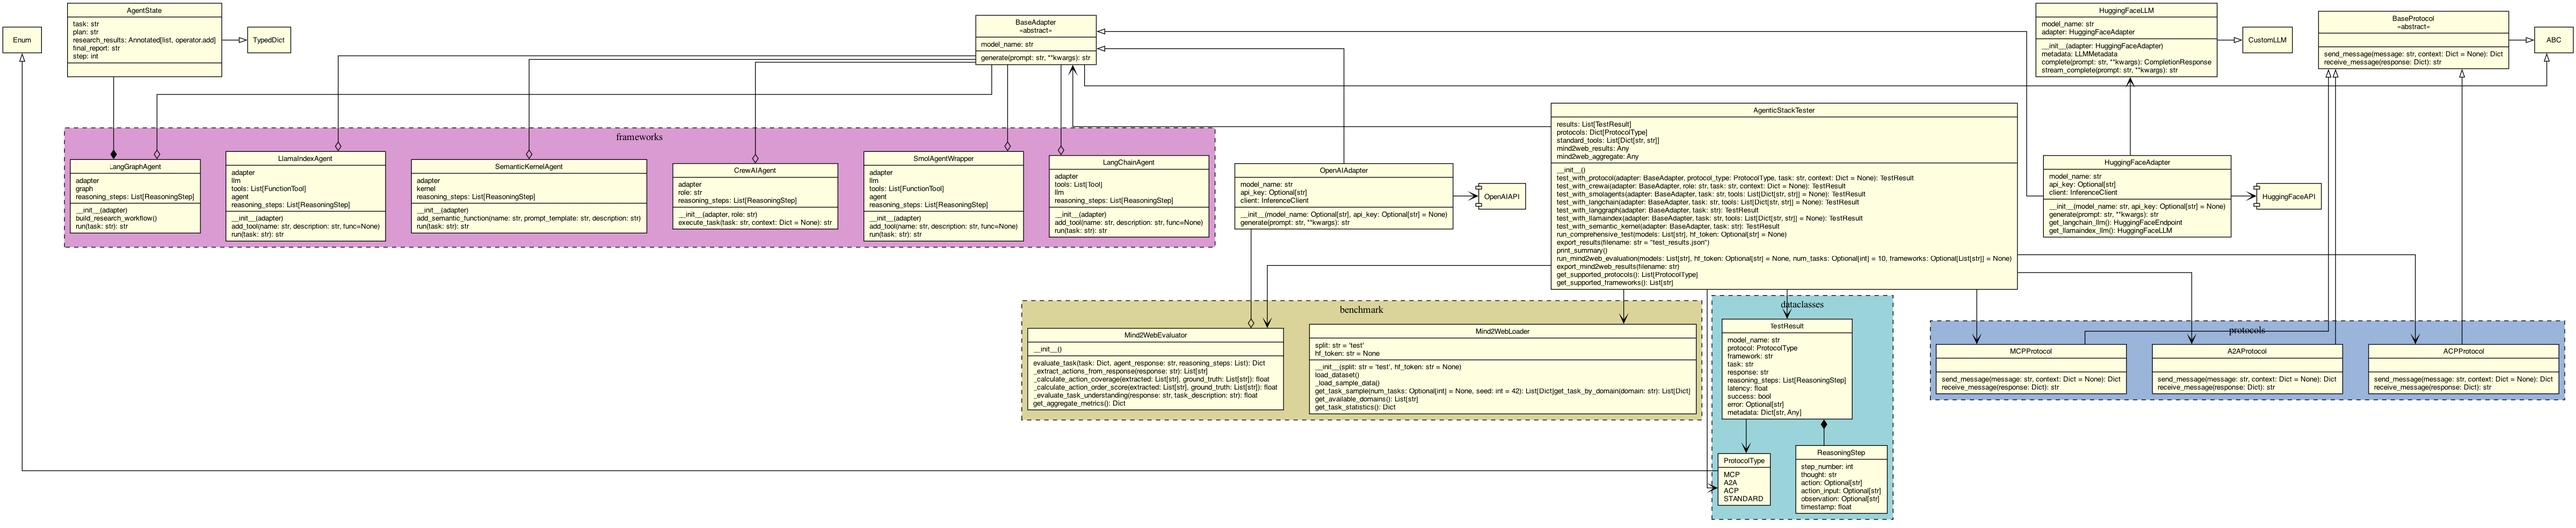
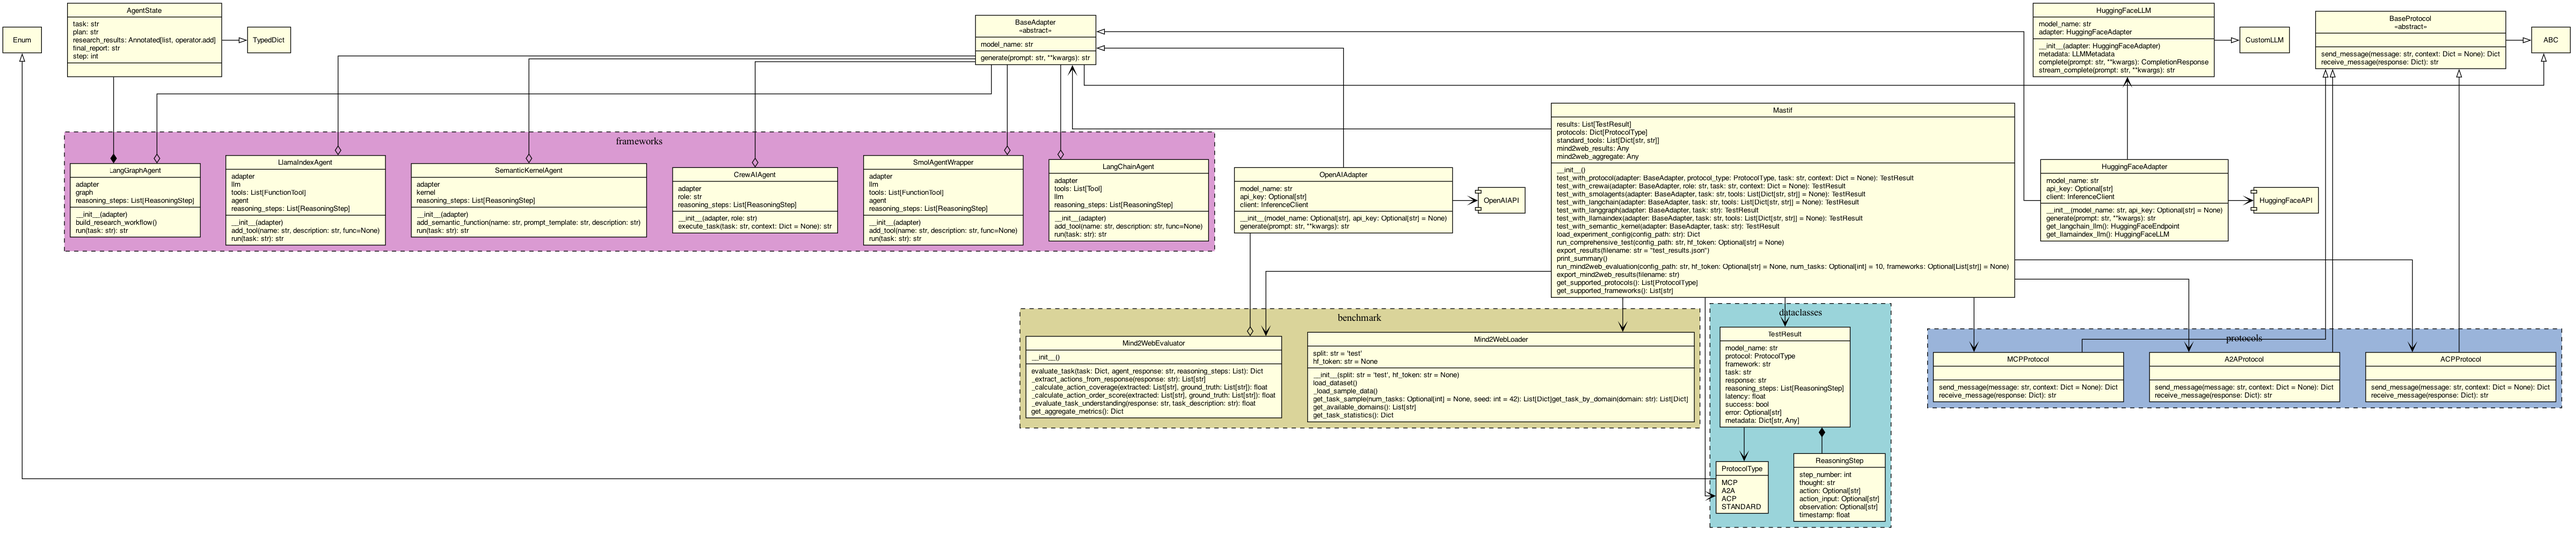
Documentation update

Changed region(s): [[0.0, 0.0, 1.0, 0.9756], [0.7461, 0.5793, 0.9948, 0.7622], [0.9948, 0.0305, 1.0, 0.061]]

diff --git a/__init__.py b/__init__.py
@@ -1,8 +1,8 @@
 """
-HuggingFace Agentic Stack Testing Framework
+Agentic Stack Testing Framework
 
 A framework for testing and evaluating different agentic
-technology stacks using HuggingFace models.
+technology stacks using different inference providers.
 
 Package structure:
 - domain_model: Domain model (dataclasses) and enums
@@ -25,5 +25,6 @@ __all__ = [
     'ReasoningStep',
     'TestResult',
     'HuggingFaceAdapter',
+    'OpenAIAdapter',
     'Mastif',
 ]

diff --git a/tester.py b/tester.py
@@ -29,7 +29,6 @@ from transformers import AutoTokenizer
 import tiktoken
 import yaml
 
-# TODO: Update name of this class to match the new repo name
 class Mastif:
     """
     Main testing framework for comprehensive agentic technology evaluation
